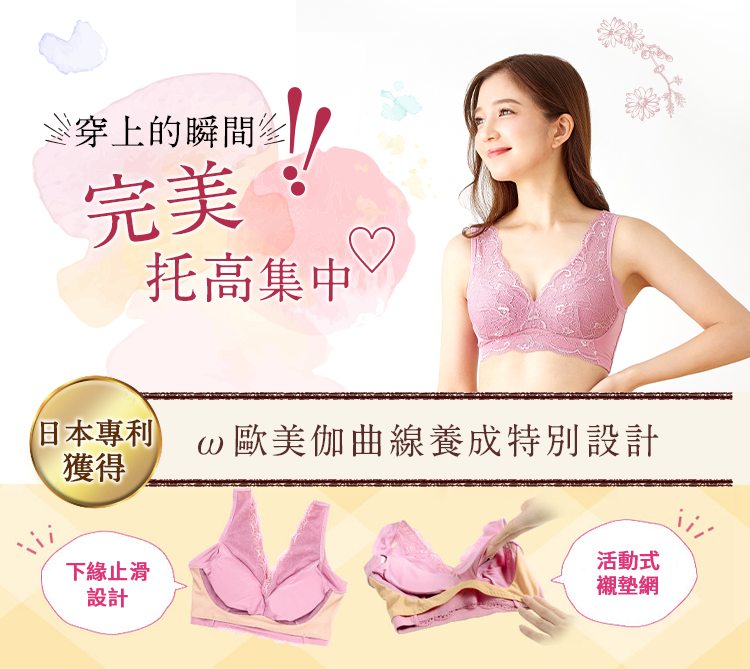
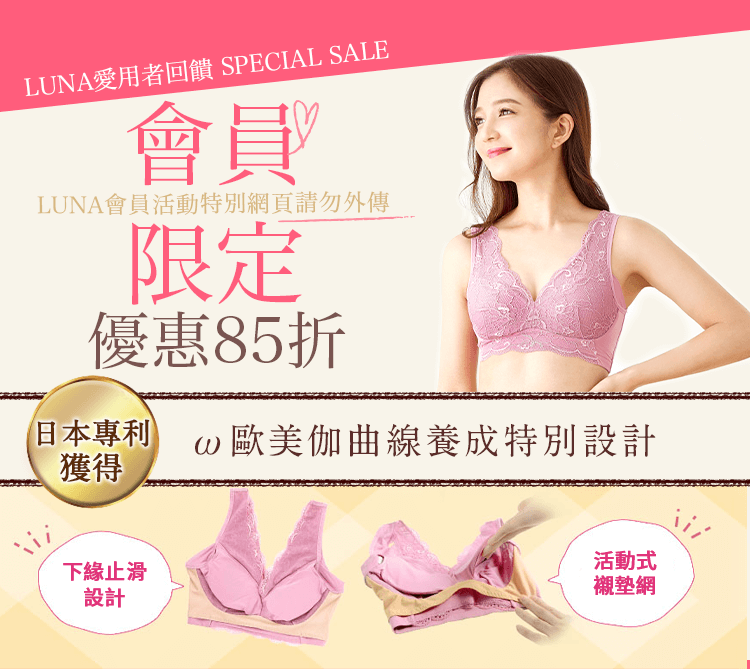
20210916_title & images update

diff --git a/index.html b/index.html
@@ -2,7 +2,21 @@
 <html>
 
 <head>
-    <title>LUNA美媞晚安內衣｜老顧客獨享9折專屬網站💕美胸保養不間斷🌸</title>
+    <title>LUNA美媞晚安內衣｜會員獨享折扣專屬網站💕振興85折美胸超輕鬆🌸</title>
+    <meta name="Description"
+        content="日本專利設計小胸福星，輕鬆打造美胸ω歐美伽曲線，美胸不再是大CUP的專利！穿著錯誤尺寸的內衣或是受地心引力影響都會使ω歐美伽曲線變形。只是穿著Luna 晚安內衣改善了ω歐美伽曲線的長度，視覺上的效果就完全不一樣！？鈴木奈奈穿著3個月後成功讓A罩杯看起來有C罩杯！">
+    <meta name="keywords" content="luna,luna內衣,晚安內衣,美媞內衣,夜晚美胸,Luna美媞晚安內衣,小胸內衣,睡覺 內衣,睡眠 內衣">
+    <!-- FB-->
+    <meta property="og:url" content="https://lunanaturalbra.com/lurpclub/">
+    <meta property="og:type" content="website">
+    <meta property="og:title" content="Luna 美媞晚安內衣">
+    <meta property="og:site_name" content="Luna 美媞晚安內衣" />
+    <meta property="og:Description"
+        content="日本專利設計小胸福星，輕鬆打造美胸ω歐美伽曲線，美胸不再是大CUP的專利！穿著錯誤尺寸的內衣或是受地心引力影響都會使ω歐美伽曲線變形。只是穿著Luna 晚安內衣改善了ω歐美伽曲線的長度，視覺上的效果就完全不一樣！？鈴木奈奈穿著3個月後成功讓A罩杯看起來有C罩杯！">
+    <meta property="og:image:width" content="1200">
+    <meta property="og:image:height" content="630">
+    <meta property="og:image" content="images/02_fv.png">
+
     <meta http-equiv="Content-Type" content="text/html; charset=utf-8">
     <!-- 編集削除禁止※スマホ最適化※編集削除禁止 -->
     <meta name="viewport" content="width=device-width, initial-scale=1, maximum-scale=1, user-scalable=yes" />
